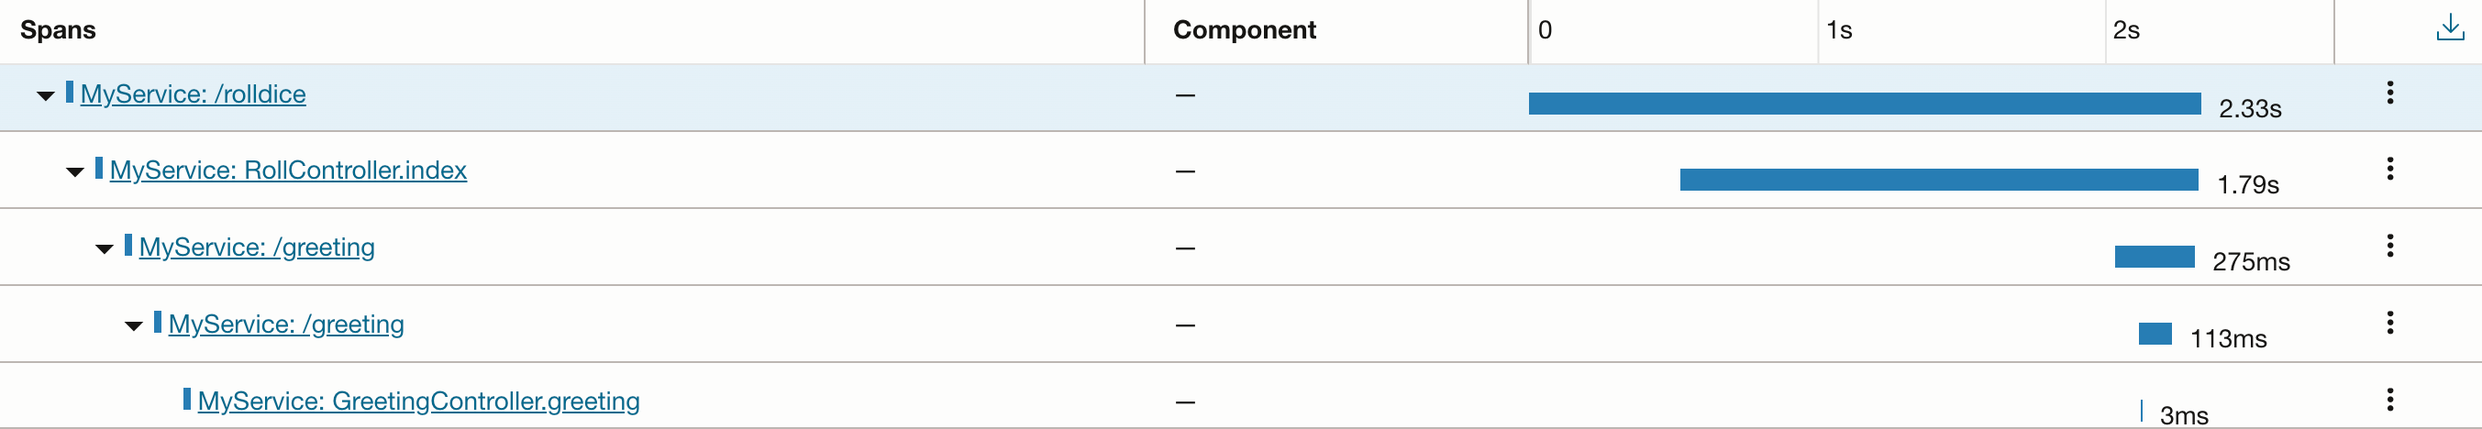
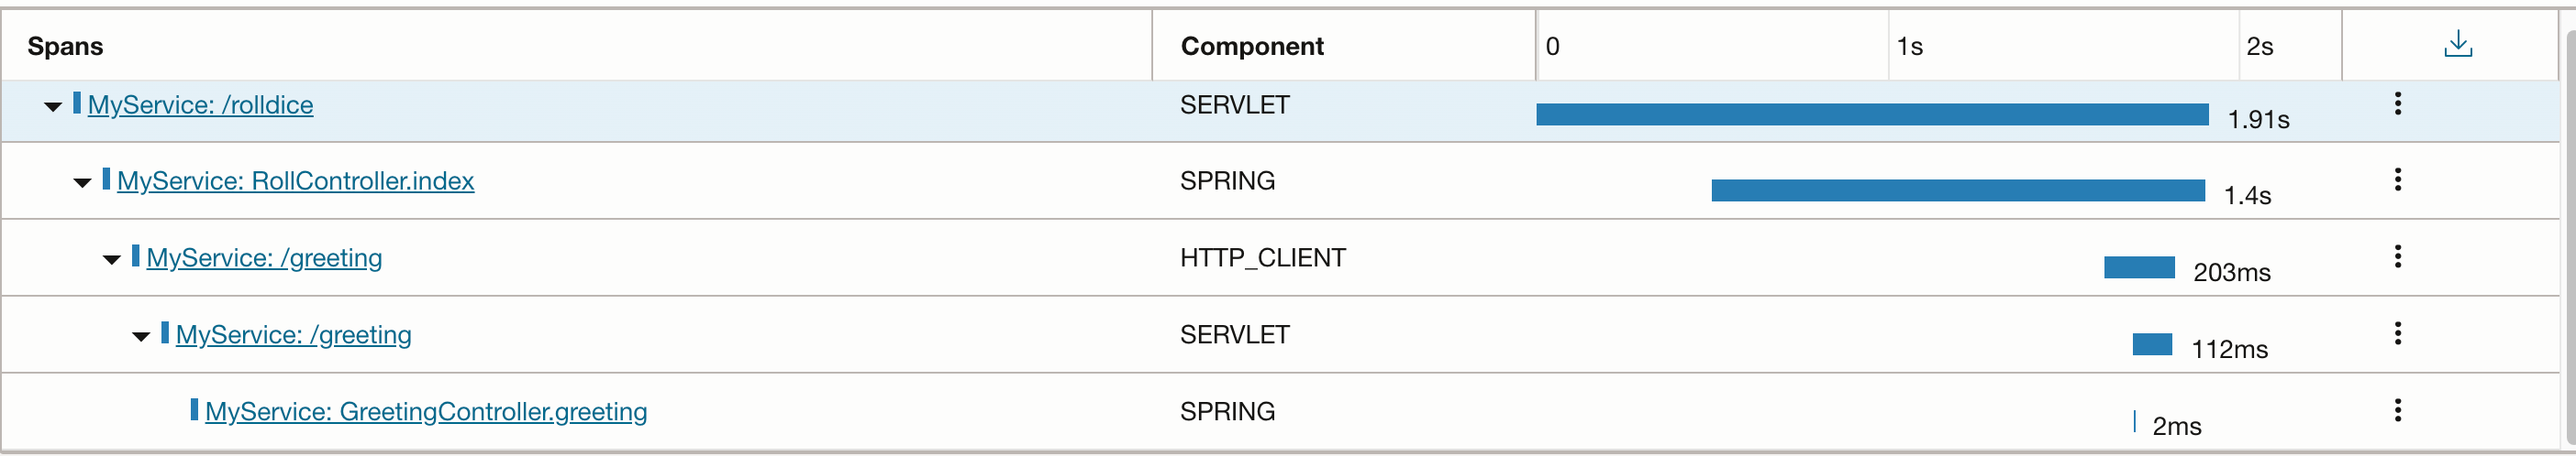
update

diff --git a/oci/README.md b/oci/README.md
@@ -101,6 +101,10 @@ In this overview, we see some details including the amount of containing spans.
 We can zoom in to show details on the included spans.
 ![spans.png](../pics/spans.png)
 
+The elements are defined as output fields of the [Java agent](https://docs.oracle.com/en-us/iaas/application-performance-monitoring/doc/attributes-java-agent.html).
+The component is the software package, framework, library, or module that generated the associated span, 
+see the [semantic conventions of the OpenTracing specification](https://opentracing.io/specification/conventions/).
+
 We can work on those spans, compare and inspect them.
 
 A graph of our trace with its spans can be displayed, and in our example, it looks like this:
